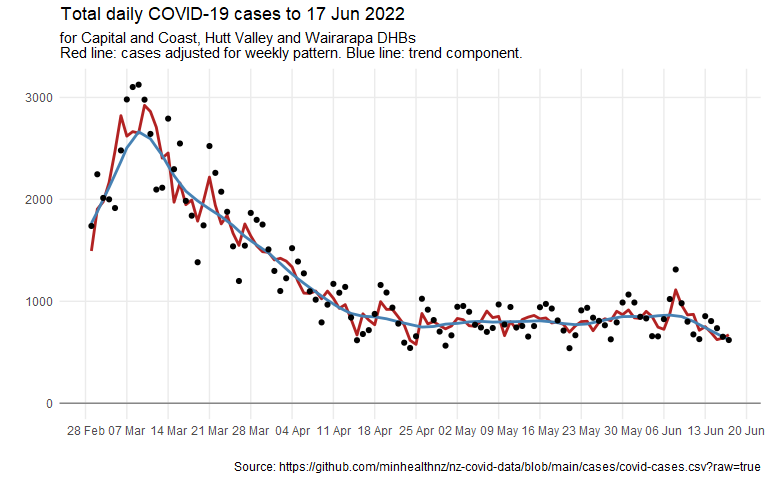
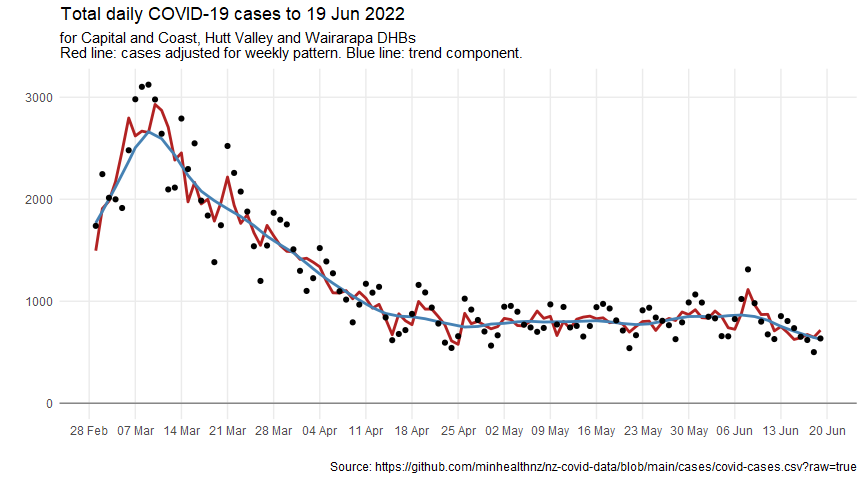
Widen figures; update for 20220620

diff --git a/covid-post-peak-analysis.md b/covid-post-peak-analysis.md
@@ -30,7 +30,7 @@ cases_df <- read_csv(case_data_url) %>%
 
     ## Warning: One or more parsing issues, see `problems()` for details
 
-    ## Rows: 1270039 Columns: 7
+    ## Rows: 1277568 Columns: 7
 
     ## -- Column specification --------------------------------------------------------
     ## Delimiter: ","
@@ -49,7 +49,7 @@ cases_by_dhb_df <- cases_df %>%
   count(report_date, dhb, case_status)
 ```
 
-## Wellington figures up to 17 Jun 2022
+## Wellington figures up to 19 Jun 2022
 
 Including Hutt and Wairarapa as well as CCDHB.
 
@@ -166,9 +166,9 @@ maxima <- dhb_cases_after_transform_stl_df %>%
   summarise(cases = max(cases), adjusted = max(season_adjust), trend = max(trend))
 ```
 
-Looking at raw case numbers, the peak on 9 Mar 2022 was about 5.8 times the lowest recent value.
+Looking at raw case numbers, the peak on 9 Mar 2022 was about 6.2 times the lowest recent value.
 
-But when adjusting for the weekly pattern, it was 5.1 times the lowest recent adjusted value, and the trend was about 4.3 times the lowest recent trend line.
+But when adjusting for the weekly pattern, it was 5.1 times the lowest recent adjusted value, and the trend was about 4.2 times the lowest recent trend line.
 
 While the trend might be over-smoothed, the peak coincinded with the strong weekly pattern, suggesting that the apparent difference between the peak and now was exaggerated by weekly differences in reporting.
 
